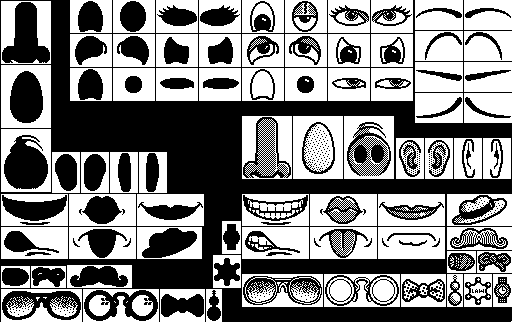
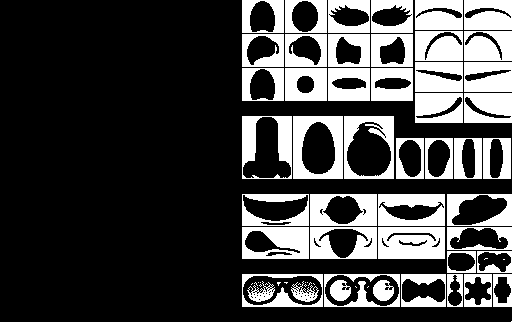
Simplified the code and the configuration files: now all masks have the same position as the objects
svn path=/trunk/kdegames/ktuberling/; revision=137130

diff --git a/playground.cpp b/playground.cpp
@@ -30,7 +30,7 @@ PlayGround::PlayGround( TopLevel *parent, const char *name, uint selectedGameboa
 {
   topLevel = parent;
 
-  textsLayout = objectsLayout = shapesLayout = 0;
+  textsLayout = objectsLayout = 0;
   textsList = soundsList = 0;
   draggedCursor = 0;
 
@@ -54,7 +54,6 @@ PlayGround::~PlayGround()
 {
   if (textsLayout) delete [] textsLayout;
   if (objectsLayout) delete [] objectsLayout;
-  if (shapesLayout) delete [] shapesLayout;
 
   if (textsList) delete [] textsList;
   if (soundsList) delete [] soundsList;
@@ -244,7 +243,7 @@ void PlayGround::paintEvent( QPaintEvent *event )
   artist.setPen(black);
 
   for (currentObject = toDraw.first(); currentObject; currentObject = toDraw.next())
-    currentObject->draw(artist, area, objectsLayout, shapesLayout, &gameboard, &masks);
+    currentObject->draw(artist, area, objectsLayout, &gameboard, &masks);
 
   bitBlt(this, destination, &cache, area, Qt::CopyROP);
 }
@@ -260,9 +259,9 @@ void PlayGround::mousePressEvent( QMouseEvent *event )
 
   int draggedNumber = draggedObject.getNumber();
   QPixmap object(objectsLayout[draggedNumber].size());
-  QBitmap shape(shapesLayout[draggedNumber].size());
+  QBitmap shape(objectsLayout[draggedNumber].size());
   bitBlt(&object, QPoint(0, 0), &gameboard, objectsLayout[draggedNumber], Qt::CopyROP);
-  bitBlt(&shape, QPoint(0, 0), &masks, shapesLayout[draggedNumber], Qt::CopyROP);
+  bitBlt(&shape, QPoint(0, 0), &masks, objectsLayout[draggedNumber], Qt::CopyROP);
   object.setMask(shape);
 
   if (!(draggedCursor = new QCursor
@@ -412,7 +411,7 @@ bool PlayGround::loadPlayGround(QDomDocument &layoutDocument, uint toLoad)
 
   editableAreaElement = (const QDomElement &) editableAreasList.item(0);
 
-  gameAreasList = editableAreaElement.elementsByTagName("game");
+  gameAreasList = editableAreaElement.elementsByTagName("position");
   if (gameAreasList.count() != 1)
     return false;
 
@@ -450,7 +449,7 @@ bool PlayGround::loadPlayGround(QDomDocument &layoutDocument, uint toLoad)
   {
     categoryElement = (const QDomElement &) categoriesList.item(text);
 
-    gameAreasList = categoryElement.elementsByTagName("game");
+    gameAreasList = categoryElement.elementsByTagName("position");
     if (gameAreasList.count() != 1)
       return false;
 
@@ -482,8 +481,6 @@ bool PlayGround::loadPlayGround(QDomDocument &layoutDocument, uint toLoad)
 
   if (!(objectsLayout = new QRect[decorations]))
     return false;
-  if (!(shapesLayout = new QRect[decorations]))
-    return false;
   if (!(soundsList = new QString[decorations]))
     return false;
 
@@ -491,7 +488,7 @@ bool PlayGround::loadPlayGround(QDomDocument &layoutDocument, uint toLoad)
   {
     objectElement = (const QDomElement &) objectsList.item(decoration);
 
-    gameAreasList = objectElement.elementsByTagName("game");
+    gameAreasList = objectElement.elementsByTagName("position");
     if (gameAreasList.count() != 1)
       return false;
 
@@ -502,22 +499,6 @@ bool PlayGround::loadPlayGround(QDomDocument &layoutDocument, uint toLoad)
     bottomAttribute = gameAreaElement.attributeNode("bottom");
 
     objectsLayout[decoration].setCoords
-	    (leftAttribute.value().toInt(),
-	     topAttribute.value().toInt(),
-	     rightAttribute.value().toInt(),
-	     bottomAttribute.value().toInt());
-
-    maskAreasList = objectElement.elementsByTagName("mask");
-    if (maskAreasList.count() != 1)
-      return false;
-
-    maskAreaElement = (const QDomElement &) maskAreasList.item(0);
-    leftAttribute = maskAreaElement.attributeNode("left");
-    topAttribute = maskAreaElement.attributeNode("top");
-    rightAttribute = maskAreaElement.attributeNode("right");
-    bottomAttribute = maskAreaElement.attributeNode("bottom");
-
-    shapesLayout[decoration].setCoords
 	    (leftAttribute.value().toInt(),
 	     topAttribute.value().toInt(),
 	     rightAttribute.value().toInt(),
@@ -576,10 +557,10 @@ bool PlayGround::zone(QPoint &position)
     draggedObject = *currentObject;
     draggedNumber = draggedObject.getNumber();
 
-    QBitmap shape(shapesLayout[draggedNumber].size());
+    QBitmap shape(objectsLayout[draggedNumber].size());
     QPoint relative(position.x() - toUpdate.x(),
                     position.y() - toUpdate.y());
-    bitBlt(&shape, QPoint(0, 0), &masks, shapesLayout[draggedNumber], Qt::CopyROP);
+    bitBlt(&shape, QPoint(0, 0), &masks, objectsLayout[draggedNumber], Qt::CopyROP);
     if (!shape.convertToImage().pixelIndex(relative.x(), relative.y())) continue;
 
     toDraw.remove(draggedZOrder);

diff --git a/todraw.cpp b/todraw.cpp
@@ -43,16 +43,16 @@ ToDraw &ToDraw::operator=(const ToDraw &model)
 
 // Draw an object previously laid down on the game board
 void ToDraw::draw(QPainter &artist, const QRect &area,
-                  const QRect *objectsLayout, const QRect *shapesLayout,
+                  const QRect *objectsLayout,
                   const QPixmap *gameboard, const QBitmap *masks) const
 {
   if (!position.intersects(area)) return;
 
   QPixmap objectPixmap(objectsLayout[number].size());
-  QBitmap shapeBitmap(shapesLayout[number].size());
+  QBitmap shapeBitmap(objectsLayout[number].size());
 
   bitBlt(&objectPixmap, QPoint(0, 0), gameboard, objectsLayout[number], Qt::CopyROP);
-  bitBlt(&shapeBitmap, QPoint(0, 0), masks, shapesLayout[number], Qt::CopyROP);
+  bitBlt(&shapeBitmap, QPoint(0, 0), masks, objectsLayout[number], Qt::CopyROP);
   objectPixmap.setMask(shapeBitmap);
   artist.drawPixmap(position.topLeft(), objectPixmap);
 }

diff --git a/playground.h b/playground.h
@@ -75,8 +75,7 @@ private:
   int texts,                    // Number of categories of objects names
       decorations;              // Number of draggable objects on the right side of the gameboard
   QRect *textsLayout,           // Positions of the categories names
-        *objectsLayout,         // Position of the draggable objects on right side of the gameboard
-        *shapesLayout;          // Position of the shapes of these objects in the masks file
+        *objectsLayout;         // Position of the draggable objects on right side of the gameboard
   QString *textsList,           // List of the message numbers associated with categories
           *soundsList;          // List of sounds associated with each object
 

diff --git a/main.cpp b/main.cpp
@@ -16,7 +16,7 @@
 static const char *description = I18N_NOOP("Potato game for kids");
 static const char *text = I18N_NOOP("A program by Eric Bischoff <e.bischoff@noos.fr>\nand John Calhoun.\n\nThis program is dedicated to my daughter Sunniva.\n\nYou need OGG Vorbis rc3 to be able to hear the sounds.");
 
-static const char *version = "0.2.8";
+static const char *version = "0.3";
 
 // Main function
 int main(int argc, char *argv[])

diff --git a/todraw.h b/todraw.h
@@ -19,7 +19,7 @@ class ToDraw
     ToDraw(const ToDraw &);
     ToDraw(int, const QRect &);
     ToDraw &operator=(const ToDraw &);
-    void draw(QPainter &, const QRect &, const QRect *, const QRect *, const QPixmap *, const QBitmap *) const;
+    void draw(QPainter &, const QRect &, const QRect *, const QPixmap *, const QBitmap *) const;
     void save(FILE *) const;
     bool load(FILE *, int, bool &);
 
